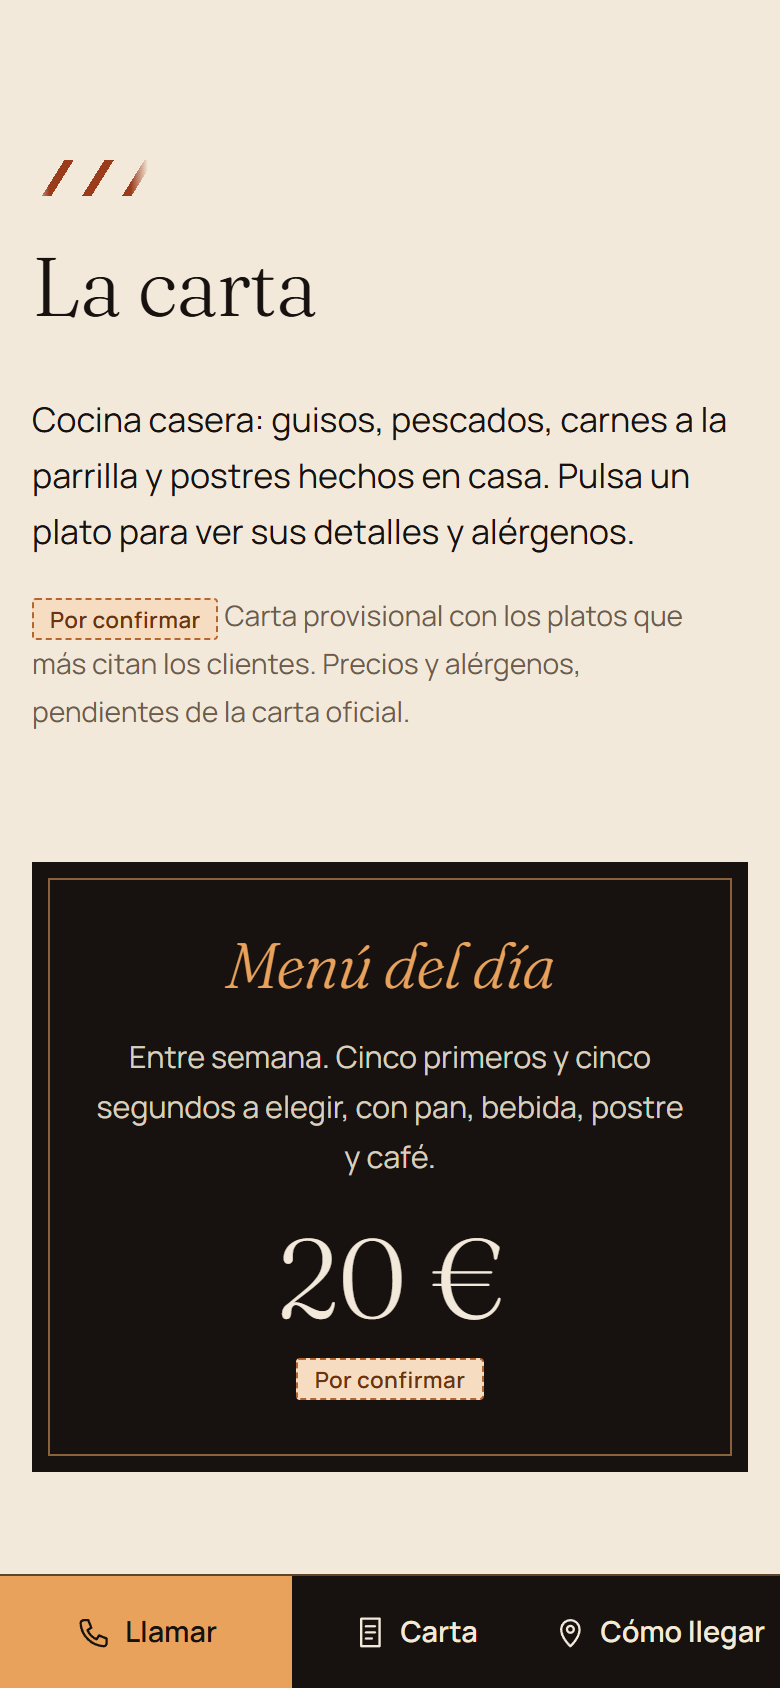
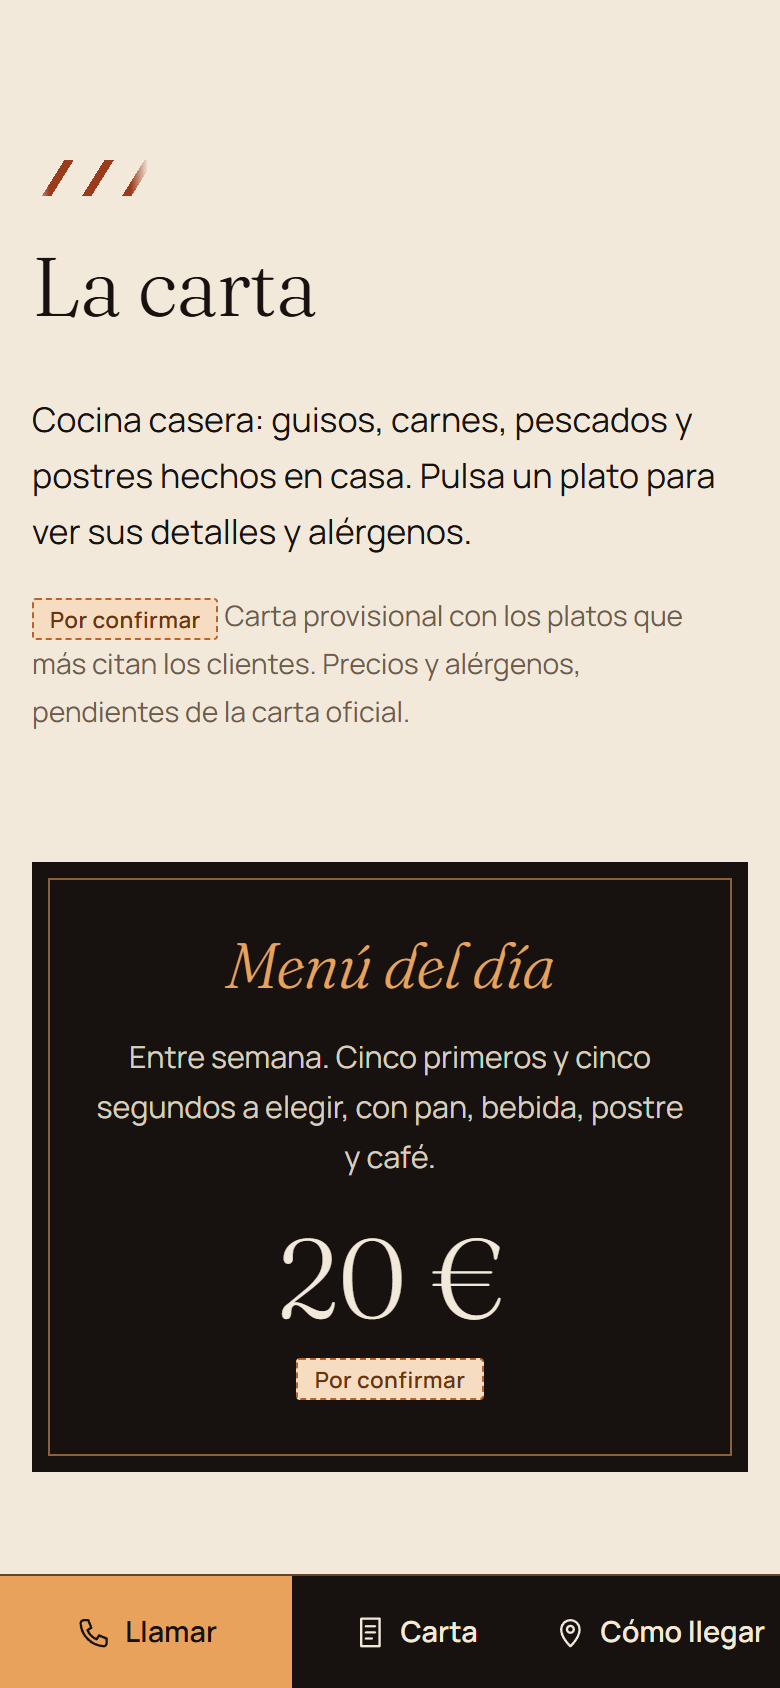
Sin parrilla: se retira ese servicio de la carta, textos, galería, Grupos, JSON-LD y llms.txt; portada con el Monasterio en alta resolución

Changed region(s): [[0.0308, 0.2464, 0.9231, 0.3389]]

diff --git a/frontend/src/i18n/textos.ts b/frontend/src/i18n/textos.ts
@@ -9,7 +9,7 @@ const es = {
   meta: {
     titulo: 'Parrilla Príncipe · Cocina casera junto al Monasterio de El Escorial',
     descripcion:
-      'Restaurante de cocina casera en la calle Floridablanca, a unos pasos del Monasterio de San Lorenzo de El Escorial. Menú del día, carnes a la parrilla y terraza a la sombra de los castaños.',
+      'Restaurante de cocina casera en la calle Floridablanca, a unos pasos del Monasterio de San Lorenzo de El Escorial. Menú del día, guisos, carnes y pescados, y terraza a la sombra de los castaños.',
   },
   nav: {
     historia: 'La casa',
@@ -37,14 +37,14 @@ const es = {
     titular: 'La cocina de siempre, a la sombra de los castaños.',
     enfasisDesde: 4, // a partir de esta palabra, el titular va en cursiva ámbar
     entradilla:
-      'Cocina casera, menú del día y carnes a la parrilla en la calle Floridablanca, a unos pasos del Monasterio.',
-    imagenAlt: 'El Monasterio de El Escorial visto desde lo alto, con árboles en flor en primer plano',
+      'Cocina casera y menú del día en la calle Floridablanca, a unos pasos del Monasterio.',
+    imagenAlt: 'El Monasterio de El Escorial visto desde su estanque, bajo un cielo de nubes',
   },
   historia: {
     titulo: 'Una casa de las de siempre',
     p1: 'La Parrilla Príncipe está en la calle Floridablanca, en pleno centro histórico de San Lorenzo, a unos pasos del Real Monasterio. El edificio fue durante años también hotel, con salones para comidas de grupo.',
     p1Pendiente: true,
-    p2: 'Quien viene suele volver por lo mismo: la cocina casera, un menú del día con mucho donde elegir, la carne a la parrilla y un trato cercano, pendiente de cada mesa.',
+    p2: 'Quien viene suele volver por lo mismo: la cocina casera, un menú del día con mucho donde elegir, las raciones generosas y un trato cercano, pendiente de cada mesa.',
     cita: 'Un trato y un ambiente de otros tiempos.',
     citaAutor: 'paquito, en Tripadvisor (septiembre de 2026)',
     huerta:
@@ -60,7 +60,7 @@ const es = {
   carta: {
     titulo: 'La carta',
     intro:
-      'Cocina casera: guisos, pescados, carnes a la parrilla y postres hechos en casa. Pulsa un plato para ver sus detalles y alérgenos.',
+      'Cocina casera: guisos, carnes, pescados y postres hechos en casa. Pulsa un plato para ver sus detalles y alérgenos.',
     provisional:
       'Carta provisional con los platos que más citan los clientes. Precios y alérgenos, pendientes de la carta oficial.',
     filtros: 'Filtrar',
@@ -139,7 +139,7 @@ const es = {
     lista: [
       {
         p: '¿Dónde está la Parrilla Príncipe?',
-        r: 'La Parrilla Príncipe es un restaurante de cocina casera y carnes a la parrilla en la calle Floridablanca, 6, en el centro histórico de San Lorenzo de El Escorial (Madrid), a unos pasos del Real Monasterio.',
+        r: 'La Parrilla Príncipe es un restaurante de cocina casera en la calle Floridablanca, 6, en el centro histórico de San Lorenzo de El Escorial (Madrid), a unos pasos del Real Monasterio.',
       },
       {
         p: '¿Hace falta reservar?',
@@ -156,7 +156,7 @@ const es = {
       },
       {
         p: '¿Qué es lo más recomendado?',
-        r: 'Los clientes destacan sobre todo los huevos al ajillo, el entrecot a la parrilla, el tomate con ventresca y los postres caseros.',
+        r: 'Los clientes destacan sobre todo los huevos al ajillo, el entrecot, el tomate con ventresca y los postres caseros.',
       },
       {
         p: '¿Se puede ir con niños?',
@@ -212,7 +212,7 @@ const en: Textos = {
   meta: {
     titulo: 'Parrilla Príncipe · Home cooking by the Monastery of El Escorial',
     descripcion:
-      'Home-cooking restaurant on Calle Floridablanca, a few steps from the Monastery of San Lorenzo de El Escorial, near Madrid. Set lunch menu, grilled meat and a terrace shaded by chestnut trees.',
+      'Home-cooking restaurant on Calle Floridablanca, a few steps from the Monastery of San Lorenzo de El Escorial, near Madrid. Set lunch menu, stews, meat and fish, and a terrace shaded by chestnut trees.',
   },
   nav: {
     historia: 'The house',
@@ -240,14 +240,14 @@ const en: Textos = {
     titular: 'Cooking of the old school, in the shade of the chestnut trees.',
     enfasisDesde: 5,
     entradilla:
-      'Home cooking, a set lunch menu and grilled meat on Calle Floridablanca, a few steps from the Monastery.',
-    imagenAlt: 'The Monastery of El Escorial seen from above, with trees in bloom in the foreground',
+      'Home cooking and a set lunch menu on Calle Floridablanca, a few steps from the Monastery.',
+    imagenAlt: 'The Monastery of El Escorial seen from its pond, under a cloudy sky',
   },
   historia: {
     titulo: 'A house of the old school',
     p1: 'Parrilla Príncipe is on Calle Floridablanca, in the historic centre of San Lorenzo, a few steps from the Royal Monastery. For years the building was also a hotel, with rooms for group meals.',
     p1Pendiente: true,
-    p2: 'Guests tend to come back for the same things: home cooking, a set menu with plenty of choice, meat from the grill and friendly service that looks after every table.',
+    p2: 'Guests tend to come back for the same things: home cooking, a set menu with plenty of choice, generous portions and friendly service that looks after every table.',
     cita: 'Service and an atmosphere from another time.',
     citaAutor: 'paquito, on Tripadvisor (September 2026; translated from Spanish)',
     huerta:
@@ -263,7 +263,7 @@ const en: Textos = {
   carta: {
     titulo: 'The menu',
     intro:
-      'Home cooking: stews, fish, grilled meat and desserts made in-house. Tap a dish to see its details and allergens.',
+      'Home cooking: stews, meat, fish and desserts made in-house. Tap a dish to see its details and allergens.',
     provisional:
       'Provisional menu with the dishes guests mention most. Prices and allergens will follow with the official menu.',
     filtros: 'Filter',
@@ -342,7 +342,7 @@ const en: Textos = {
     lista: [
       {
         p: 'Where is Parrilla Príncipe?',
-        r: 'Parrilla Príncipe is a home-cooking restaurant, also known for its grilled meat, at Calle Floridablanca 6, in the historic centre of San Lorenzo de El Escorial (Madrid), a few steps from the Royal Monastery.',
+        r: 'Parrilla Príncipe is a home-cooking restaurant at Calle Floridablanca 6, in the historic centre of San Lorenzo de El Escorial (Madrid), a few steps from the Royal Monastery.',
       },
       {
         p: 'Do I need to book?',
@@ -359,7 +359,7 @@ const en: Textos = {
       },
       {
         p: 'What do guests recommend most?',
-        r: 'Guests especially praise the garlic eggs, the grilled entrecôte, the tomato with tuna belly and the homemade desserts.',
+        r: 'Guests especially praise the garlic eggs, the entrecôte, the tomato with tuna belly and the homemade desserts.',
       },
       {
         p: 'Can I come with children?',

diff --git a/frontend/src/data/imagenes.ts b/frontend/src/data/imagenes.ts
@@ -2,18 +2,19 @@
  * Imágenes de la web y sus créditos.
  * Mientras no lleguen las fotos del restaurante se usan fotos de Unsplash
  * (licencia Unsplash: uso libre; se cita al autor en el pie) solo para
- * ambiente (Monasterio, la parrilla en Grupos), nunca para hacer pasar un plato por suyo.
+ * ambiente (Monasterio, un brindis en Grupos), nunca para hacer pasar un plato o el local por suyos.
+ * El restaurante ya no tiene parrilla: no usar fotos de brasas ni de parrilla.
  * Lo propio del restaurante (platos, terraza, comedor) va como marcador «Foto pendiente».
  * La galería se lee de src/contenido/galeria.json; sus fotos van en src/assets/img/galeria/.
  */
 import type { ImageMetadata } from 'astro';
 import { texto, type Texto } from './restaurante';
 import galeriaJson from '../contenido/galeria.json';
-import pinzasParrilla from '../assets/img/pinzas-parrilla.jpg';
+import brindis from '../assets/img/brindis.jpg';
 import monasterioCupula from '../assets/img/monasterio-cupula.jpg';
-// Foto del propio restaurante, publicada en su Facebook (604×453). No está hecha desde el local:
-// no presentarla como «vista desde la terraza». Pedir al dueño el archivo original en más resolución.
-import monasterioVista from '../assets/img/monasterio-vista.jpg';
+// Portada: el Monasterio desde el estanque del Jardín de los Frailes (2400×1350).
+// Sustituye a la foto del Facebook del restaurante, que solo medía 604 px.
+import monasterioEstanque from '../assets/img/monasterio-estanque.jpg';
 import monasterioTorre from '../assets/img/galeria/monasterio-torre.jpg';
 import monasterioFachada from '../assets/img/galeria/monasterio-fachada.jpg';
 
@@ -32,16 +33,8 @@ const unsplash = (autor: string, id: string): Credito => ({
 });
 
 export const fotos = {
-  monasterioVista: {
-    src: monasterioVista,
-    credito: {
-      autor: 'Parrilla Príncipe (foto del Monasterio publicada en su Facebook)',
-      licencia: 'Foto propia del restaurante',
-      licenciaUrl: '',
-      origen: 'https://www.facebook.com/p/Restaurante-PARRILLA-PRINCIPE-100070293513731/',
-    },
-  },
-  pinzasParrilla: { src: pinzasParrilla, credito: unsplash('Paul Hermann', 'jeiqzOgwwKU') },
+  monasterioEstanque: { src: monasterioEstanque, credito: unsplash('Tiplister', 'HsBrRGGrQ0U') },
+  brindis: { src: brindis, credito: unsplash('Micaela Peduzi', 'ch4Fc1cGTq4') },
   monasterioCupula: { src: monasterioCupula, credito: unsplash('Hernan Gonzalez', '2jBlzNmelIw') },
   monasterioTorre: { src: monasterioTorre, credito: unsplash('Fernando Mola-Davis', 'Z939vzXyUvU') },
   monasterioFachada: { src: monasterioFachada, credito: unsplash('Alejandro Pohlenz', 'h99RwnB0Sso') },

diff --git a/frontend/src/pages/llms.txt.ts b/frontend/src/pages/llms.txt.ts
@@ -27,12 +27,12 @@ export const GET: APIRoute = ({ site }) => {
   const platos = carta.map((c) => `${c.nombre.es}: ${c.platos.map((p) => p.nombre.es).join(', ')}`).join('. ');
 
   const platoCasa = r.platoCasa.pendiente
-    ? 'Los clientes destacan los huevos al ajillo, el entrecot a la parrilla, el tomate con ventresca y los postres caseros.'
+    ? 'Los clientes destacan los huevos al ajillo, el entrecot, el tomate con ventresca y los postres caseros.'
     : `Plato de la casa: ${r.platoCasa.nombre.es}.`;
 
   const cuerpo = `# ${r.nombre}
 
-> ${r.nombre} es un restaurante de cocina casera, con carnes a la parrilla, en ${d.localidad} (${d.provincia}, España), en ${d.calle}, a unos pasos del Real Monasterio de El Escorial. Tiene menú del día entre semana y una terraza a la sombra de grandes castaños. Las reservas se hacen por teléfono (${r.telefono.visible}). ${platoCasa} ${menuDia} ${horario} Carta: ${platos}. Alérgenos: consultar al personal o por teléfono antes de la visita.
+> ${r.nombre} es un restaurante de cocina casera en ${d.localidad} (${d.provincia}, España), en ${d.calle}, a unos pasos del Real Monasterio de El Escorial. Tiene menú del día entre semana y una terraza a la sombra de grandes castaños. Las reservas se hacen por teléfono (${r.telefono.visible}). ${platoCasa} ${menuDia} ${horario} Carta: ${platos}. Alérgenos: consultar al personal o por teléfono antes de la visita.
 
 ## Web
 

diff --git a/docs/seo-geo.md b/docs/seo-geo.md
@@ -3,7 +3,7 @@
 **Objetivo:** que el restaurante aparezca, y bien descrito, cuando alguien pregunte a Google o a una IA (AI Overviews, Gemini, ChatGPT, Perplexity, Claude, Copilot) cosas como:
 - «dónde comer cerca del Monasterio de El Escorial»;
 - «menú del día en San Lorenzo de El Escorial»;
-- «parrilla en El Escorial»;
+- «comida casera cerca del Monasterio»;
 - o directamente por la Parrilla Príncipe.
 
 > **Honestidad:** ninguna técnica garantiza el primer puesto en buscadores ni en IA.
@@ -63,11 +63,11 @@ Revisar y corregir en:
 
 ## 3. Google Business Profile (lo que más pesa en las búsquedas locales)
 
-- **Categorías:** la principal, «Restaurante de parrilla» o «Asador» (la que exista en el perfil); como secundarias, «Restaurante de cocina española» y «Restaurante».
+- **Categorías:** la principal, «Restaurante de cocina española»; como secundaria, «Restaurante». **No usar «Restaurante de parrilla» ni «Asador»**: el restaurante ya no tiene parrilla, aunque el nombre la mencione.
 - **Horario:** el real, festivos incluidos, **igual que en la web**.
 - **Enlaces:** la web y, en «Menú», el enlace a `/#carta`.
 - **Atributos:** terraza, admite reservas, y las opciones vegetarianas, sin gluten, apto para niños y perros en la terraza solo si son ciertas.
-- **Fotos:** subir 20 o más reales. La terraza bajo los castaños, los huevos al ajillo, el entrecot, el comedor, la vista al Monasterio y el equipo.
+- **Fotos:** subir 20 o más reales. La terraza bajo los castaños, los huevos al ajillo, el comedor, los postres, la vista al Monasterio y el equipo. Retirar las fotos antiguas de la parrilla, si las hay.
 - **Reseñas:** responder a todas, también a las negativas, de forma breve y cordial.
 - **Publicaciones:** una a la semana, con el menú del día o el plato de temporada.
 
@@ -99,8 +99,8 @@ Lanzar cada mes en **Google, ChatGPT, Gemini, Perplexity, Claude y Copilot**, en
 | 1 | Dónde comer en San Lorenzo de El Escorial |
 | 2 | Restaurante cerca del Monasterio de El Escorial |
 | 3 | Menú del día en San Lorenzo de El Escorial |
-| 4 | Parrilla o asador en El Escorial |
-| 5 | Dónde comer carne a la brasa en San Lorenzo de El Escorial |
+| 4 | Comida casera en San Lorenzo de El Escorial |
+| 5 | Dónde comer huevos al ajillo en El Escorial |
 | 6 | Restaurante con terraza a la sombra en El Escorial |
 | 7 | Dónde comer barato y bien cerca del Monasterio de El Escorial |
 | 8 | Restaurante para comidas de grupo en San Lorenzo de El Escorial |
@@ -108,7 +108,7 @@ Lanzar cada mes en **Google, ChatGPT, Gemini, Perplexity, Claude y Copilot**, en
 | 10 | ¿La Parrilla Príncipe tiene menú del día? ¿Cuánto cuesta? |
 | 11 | Where to eat near El Escorial Monastery |
 | 12 | Set lunch menu in San Lorenzo de El Escorial |
-| 13 | Grilled meat restaurant El Escorial |
+| 13 | Home-cooked Spanish food near El Escorial |
 
 Plantilla de registro:
 

diff --git a/docs/cuestionario-dueno.md b/docs/cuestionario-dueno.md
@@ -23,23 +23,23 @@
 10. ¿La carne es de la Sierra de Guadarrama? ¿De qué carnicería o ganadería?
 11. ¿Tenéis la tabla de **alérgenos** de cada plato? Es obligatoria y la pondremos en la web.
 12. ¿Tenéis opciones sin gluten, vegetarianas o menú infantil?
+13. Ya no tenéis parrilla: ¿cómo preparáis ahora las carnes (plancha, horno…)? ¿Sigue en la carta el entrecot, el chuletón y las chuletillas?
 
 **La casa**
-13. En varias reseñas se habla de una **huerta propia** («el tomate de la huerta»). ¿Es vuestra? ¿Dónde está y qué cultiváis?
-14. ¿Desde qué año lleváis el restaurante? ¿Es un negocio familiar? ¿Nos contáis la historia en dos líneas?
-15. ¿Podemos nombrar en la web al equipo (Javier, Ángel…) y poner alguna foto vuestra?
-16. ¿El edificio sigue funcionando como hotel o ya es solo restaurante?
-17. ¿Seguís teniendo salones para grupos? ¿Para cuántas personas? ¿Hacéis menús de grupo, comuniones o comidas de empresa?
+14. En varias reseñas se habla de una **huerta propia** («el tomate de la huerta»). ¿Es vuestra? ¿Dónde está y qué cultiváis?
+15. ¿Desde qué año lleváis el restaurante? ¿Es un negocio familiar? ¿Nos contáis la historia en dos líneas?
+16. ¿Podemos nombrar en la web al equipo (Javier, Ángel…) y poner alguna foto vuestra?
+17. ¿El edificio sigue funcionando como hotel o ya es solo restaurante?
+18. ¿Seguís teniendo salones para grupos? ¿Para cuántas personas? ¿Hacéis menús de grupo, comuniones o comidas de empresa?
 
 **Terraza y servicios**
-18. ¿La terraza está abierta todo el año o solo en temporada? ¿Cuántas mesas tiene? ¿Desde ella se ve el Monasterio?
-19. ¿Se admiten perros en la terraza?
-20. ¿Aceptáis tarjeta? (Alguien escribió que solo aceptabais efectivo.)
-21. ¿El local es accesible en silla de ruedas? ¿Dónde recomendáis aparcar?
+19. ¿La terraza está abierta todo el año o solo en temporada? ¿Cuántas mesas tiene? ¿Desde ella se ve el Monasterio?
+20. ¿Se admiten perros en la terraza?
+21. ¿Aceptáis tarjeta? (Alguien escribió que solo aceptabais efectivo.)
+22. ¿El local es accesible en silla de ruedas? ¿Dónde recomendáis aparcar?
 
 **Fotos y marca**
-22. ¿Tenéis logo? ¿Y fotos de los platos, la terraza, el comedor o la huerta? Si no, podemos quedar un día para hacerlas.
-23. La foto del Monasterio con el árbol en flor que tenéis en Facebook sale en la portada de la web. ¿Tenéis el archivo original? En Facebook se guarda muy pequeña.
+23. ¿Tenéis logo? ¿Y fotos de los platos, la terraza, el comedor o la huerta? Si no, podemos quedar un día para hacerlas.
 
 **Reservas**
 24. ¿Cómo preferís las reservas: solo por teléfono, por WhatsApp, o con algún sistema como TheFork?

diff --git a/docs/estado.md b/docs/estado.md
@@ -49,8 +49,18 @@ Nombre oficial · teléfono que se publica (hay tres) · horario (¿cenas?) · p
 3. Recomendado: abrir una sesión nueva de Claude Code en esta carpeta, porque `preview_start` lee el `.claude/launch.json` de la carpeta de la sesión.
 
 ## Cambios tras el lanzamiento de la vista previa (30/09/2026)
-- Petición del usuario: se quitan las ascuas y el hero pasa a la **foto del Monasterio que aportó el usuario** (`frontend/src/assets/img/monasterio-vista.jpg`, 604×453). Es **foto propia del restaurante**, sacada de su Facebook; no está hecha desde el local. En los créditos figura así. **Pendiente: pedir el original en más resolución** (pregunta 23 del cuestionario).
+- Petición del usuario: se quitan las ascuas y el hero pasa a la **foto del Monasterio que aportó el usuario** (`frontend/src/assets/img/monasterio-vista.jpg`, 604×453). Es **foto propia del restaurante**, sacada de su Facebook; no está hecha desde el local. En los créditos figura así. (Sustituida el 10/11/2026 por una foto en alta resolución: ver más abajo.)
 - Menos peso a la parrilla: «el nombre dice parrilla, pero no es solo parrilla».
   - Nuevo titular: «La cocina de siempre, a la sombra de los castaños».
   - Cocina casera y menú del día por delante en los textos, en los metadatos, en el JSON-LD y en llms.txt.
   - Fuera las fotos de brasas: el plato de la casa usa de fondo la piedra del Monasterio, y la parrilla solo aparece en Grupos y en la carta.
+
+## Cambios del 10/11/2026 (petición del usuario)
+- **El restaurante ya no tiene parrilla.** No se ofrece ese servicio en ningún sitio de la web; solo se mantiene el nombre comercial «Parrilla Príncipe».
+  - Carta: la sección «De la parrilla» pasa a llamarse «Carnes» (entrecot, chuletón, solomillo a la pimienta y chuletillas), sin «a la parrilla». La forma de preparación es [VERIFICAR] (pregunta 13 del cuestionario).
+  - Fuera de los textos, los metadatos, el JSON-LD (`servesCuisine`) y `llms.txt`.
+  - Galería: «La parrilla encendida» pasa a ser «Postres de la casa» (marcador).
+  - Grupos y menú a pantalla completa: la foto de la parrilla se sustituye por un brindis (Unsplash, Micaela Peduzi).
+  - `docs/seo-geo.md`: la categoría de Google ya no es «parrilla/asador» y se cambian las preguntas de medición.
+  - Los nombres internos de la paleta (`--color-brasa`) y el motivo decorativo se quedan: no se ven en la web.
+- **Portada:** la foto del Facebook del restaurante (604 px, muy baja calidad) se sustituye por el Monasterio desde su estanque (Unsplash, Tiplister, 2400×1350). Ya no hace falta pedir el original al dueño.
